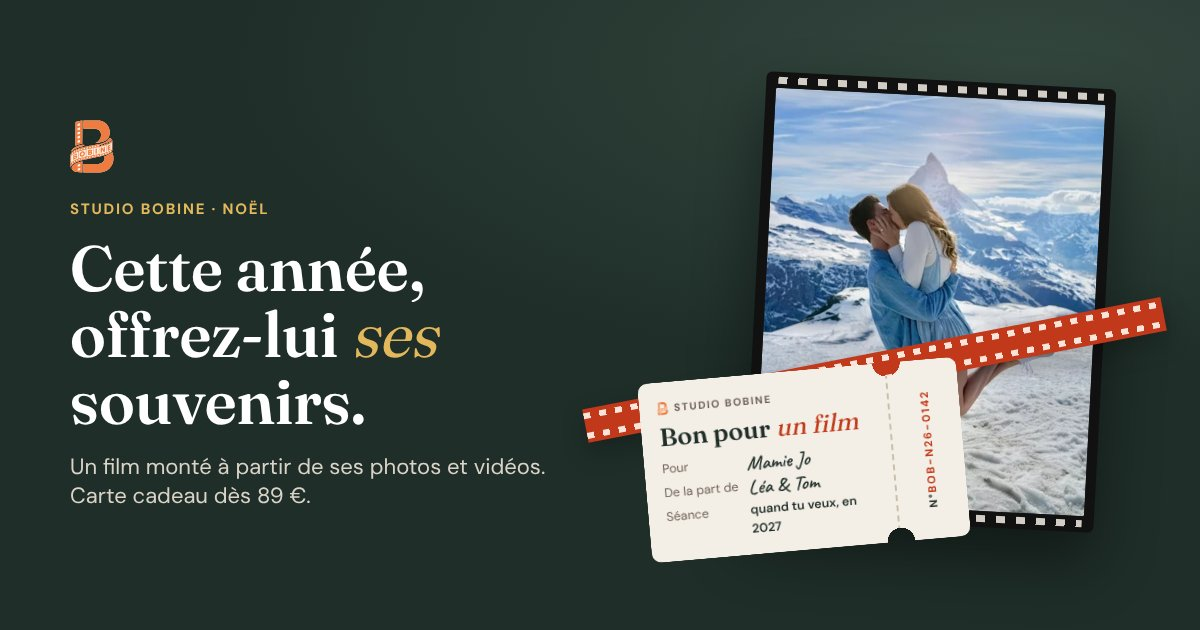
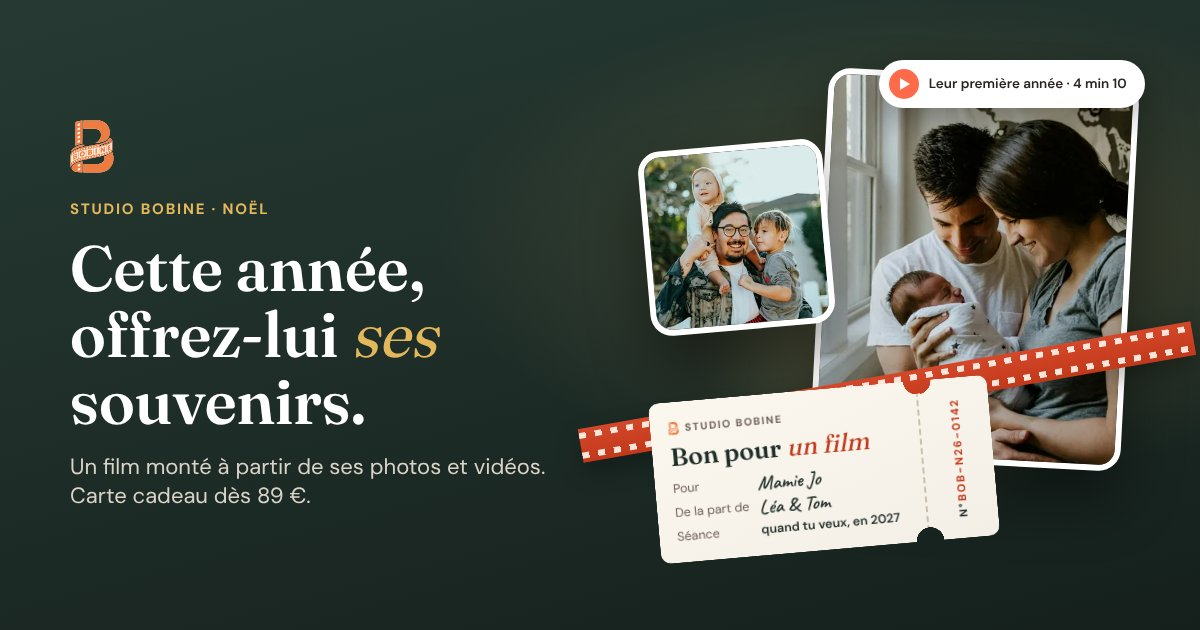
Accueil Noël : photos de famille dans le hero
- Deux nouvelles photos (parents et nouveau-né, père et ses enfants),
  sous licence Unsplash, recadrées et exportées en WebP (2 tailles)
- Pastille de lecture remontée pour ne pas masquer les visages
- Image de partage og-noel.jpg régénérée avec la nouvelle mise en scène

Claude-Session: https://claude.ai/code/session_01VUfQWmFbfogwRJAVEQjdcx

Changed region(s): [[0.4625, 0.0905, 1.0, 0.9048]]

diff --git a/index.html b/index.html
@@ -47,7 +47,7 @@
    {"@type":"Offer","name":"Film surprise","price":"189","priceCurrency":"EUR"}]}]}
 </script>
 
-<link rel="preload" as="image" href="/images/hero/couple-montagne.webp" fetchpriority="high">
+<link rel="preload" as="image" href="/images/hero/noel-famille-naissance.webp" imagesrcset="/images/hero/noel-famille-naissance-400.webp 400w, /images/hero/noel-famille-naissance.webp 800w" imagesizes="(max-width: 920px) 70vw, 380px" fetchpriority="high">
 <link rel="preload" href="/assets/fonts/fraunces-latin.woff2" as="font" type="font/woff2" crossorigin>
 <link rel="preload" href="/assets/fonts/dm-sans-latin.woff2" as="font" type="font/woff2" crossorigin>
 <link rel="stylesheet" href="/assets/fonts/fonts.css">
@@ -124,10 +124,10 @@
       </div>
     </div>
     <div class="nl-scene" aria-hidden="true">
-      <div class="nl-photo nl-p2"><img src="/images/hero/couple-lac-400.webp" alt="" width="400" height="267" loading="eager"></div>
-      <div class="nl-photo nl-p1"><img src="/images/hero/couple-montagne.webp" alt="" width="400" height="500" fetchpriority="high"></div>
+      <div class="nl-photo nl-p2"><img src="/images/hero/noel-famille-papa.webp" srcset="/images/hero/noel-famille-papa-300.webp 300w, /images/hero/noel-famille-papa.webp 600w" sizes="(max-width: 920px) 42vw, 230px" alt="" width="600" height="600" loading="eager"></div>
+      <div class="nl-photo nl-p1"><img src="/images/hero/noel-famille-naissance.webp" srcset="/images/hero/noel-famille-naissance-400.webp 400w, /images/hero/noel-famille-naissance.webp 800w" sizes="(max-width: 920px) 70vw, 380px" alt="" width="800" height="1000" fetchpriority="high"></div>
       <div class="nl-ruban"></div>
-      <div class="nl-etiquette"><i></i>Son film · 6 min 32</div>
+      <div class="nl-etiquette"><i></i>Leur première année · 4 min 10</div>
       <div class="billet">
           <div class="billet-corps">
             <span class="billet-marque"><img src="/images/logo-mark.svg" alt="" width="11" height="13">Studio Bobine</span>

diff --git a/assets/site.css b/assets/site.css
@@ -1165,7 +1165,7 @@ body.avec-annonce main{padding-top:36px}
 .nl-photo.nl-p2{left:0;top:10%;width:42%;aspect-ratio:1/1;transform:rotate(-5deg);z-index:1}
 .nl-scene .nl-ruban{left:-14%;right:-14%;top:60%;transform:rotate(-10deg);z-index:2}
 .nl-scene .billet{position:absolute;left:0;bottom:2%;width:min(330px,88%);transform:rotate(-5deg);z-index:3}
-.nl-etiquette{position:absolute;right:-2%;top:46%;z-index:4;background:#fff;color:var(--ink);border-radius:100px;padding:9px 18px 9px 10px;display:flex;align-items:center;gap:10px;
+.nl-etiquette{position:absolute;right:-3%;top:-3%;z-index:4;background:#fff;color:var(--ink);border-radius:100px;padding:9px 18px 9px 10px;display:flex;align-items:center;gap:10px;
   font-weight:600;font-size:13.5px;box-shadow:0 12px 30px rgba(0,0,0,.3)}
 .nl-etiquette i{width:30px;height:30px;border-radius:50%;background:var(--coral);display:flex;align-items:center;justify-content:center;flex-shrink:0}
 .nl-etiquette i::after{content:"";border-left:10px solid #fff;border-top:6px solid transparent;border-bottom:6px solid transparent;margin-left:3px}
